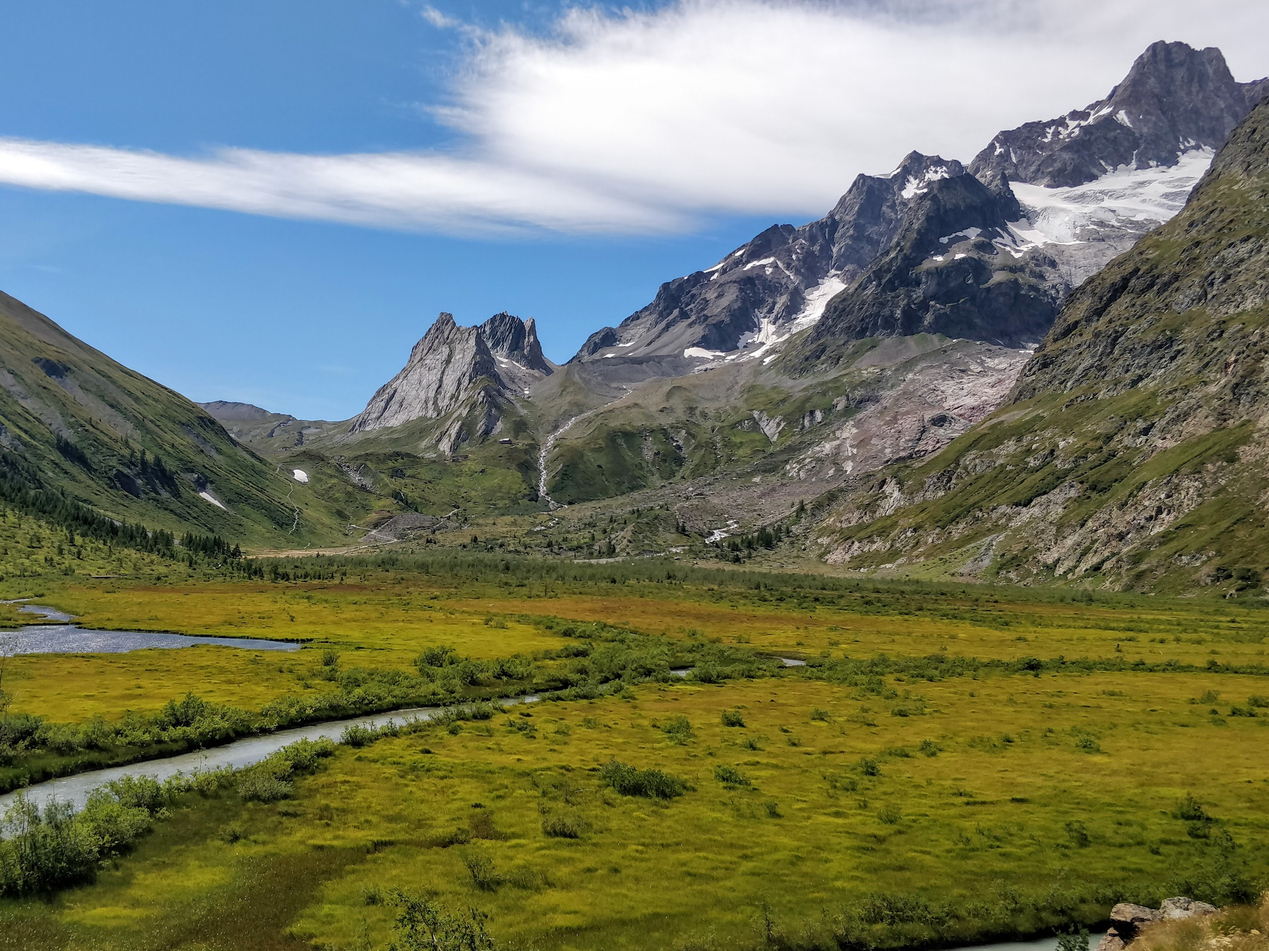
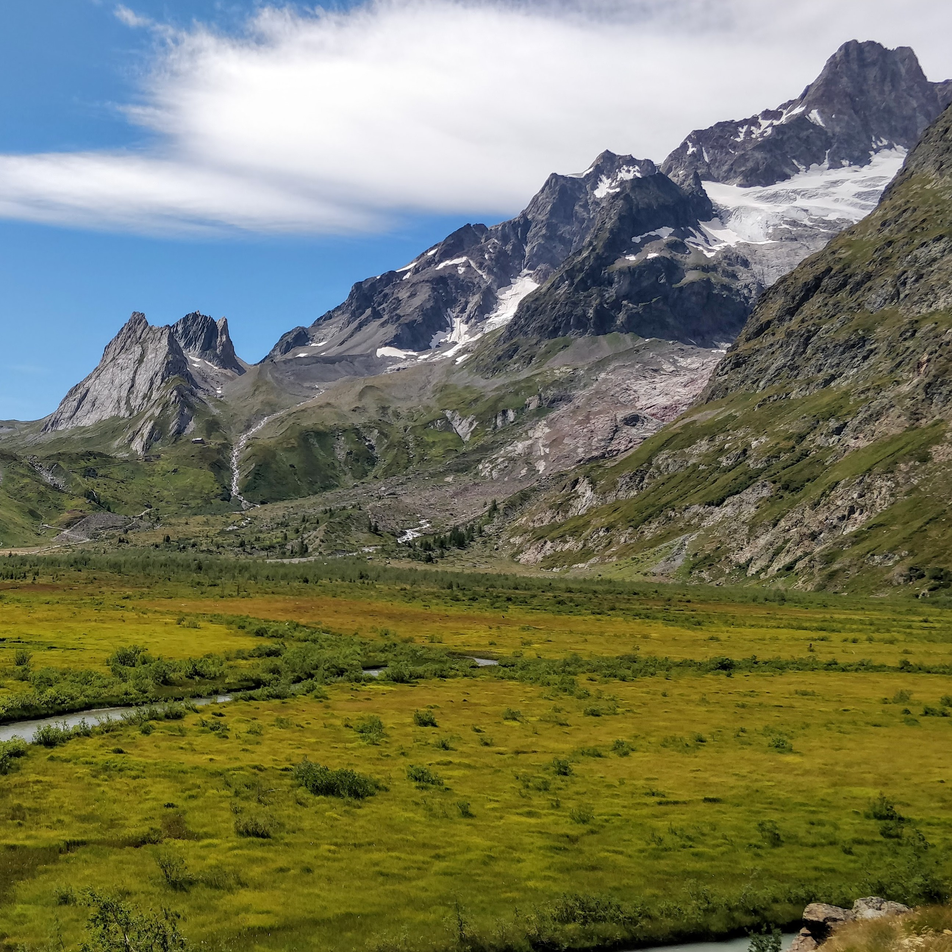
bug fix

diff --git a/index.html b/index.html
@@ -18,21 +18,23 @@
 	<body>
 		<div id="contentDiv">
 		
-			<div id="contentLeft">
-				<img src="img/veny_square.jpg" title="Veny Valley, Mont Blanc, Italy.">
+			<div id="contentLeft" class="block">
+				<!--img src="img/veny_3x2.jpg" title="Veny Valley, Mont Blanc, Italy."-->
 			</div>			
-			<div id="contentRight">
-				
+			<div id="contentRight" class="block">				
 				<div id="presentation">
 					<h1>Hello, I'm Stefano</h1>
-					<p>Software Engineer, Traveler and Hiker.</p>
+					<p>
+						Software Engineer, Traveler and Hiker.<br/>
+						Currently working for Amadeus IT Group.
+					</p>
 					<a href="https://www.linkedin.com/in/stefanogennaro/"><img class="profiles"src="img/linkedin_logo.png"></a>
 				</div>				
-				<div id="footer">
-					<p>&copy;2020 Stefano GENNARO. All Rights Reserved.</p>
-				</div>
-			</div>			
-		</div>				
+			</div>						
+		</div>
+		<div id="footer">
+			<p>&copy;2020 Stefano GENNARO. All Rights Reserved.</p>
+		</div>		
 	</body>
 	
 </html>

diff --git a/default.css b/default.css
@@ -12,21 +12,25 @@ body {
 }
 
 #contentDiv {
-    height: 100%;
+	height: 100vh;
+}
+
+#contentDiv .block {
+	height: 100vh;
 }
 
 #contentLeft {
 	width: 70%;
 	float: left;
-}
-
-#contentLeft img {
-	width:100%;
+	background-image: url("./img/veny_3x2.jpg");
+	background-repeat: no-repeat;
+	background-size: cover;
+	background-position: center;
 }
 
 #contentRight {
 	width: 30%;
-	height: 90%;
+	height: 100vh;
 	float: right;
 	text-align: center;
 }
@@ -55,22 +59,26 @@ body {
    left: 0;
    bottom: 0;
    width: 100%;
-   height: 10%;
    text-align: center;
-   padding-top: 20px;
    position: fixed;
+   clear: both;
 }
 
 #footer p {
 	color: white;
 }
 
-@media screen and (max-width: 600px) {
+@media screen and (max-width: 800px) {
 	#contentLeft {
 		width: 0%;
 	}
 	
-	#contentRight {
+	#contentRight, #footer {
+		display: block;
 		width: 100%;
+	}
+	
+	#footer p {
+		color: black;
 	}
 }
